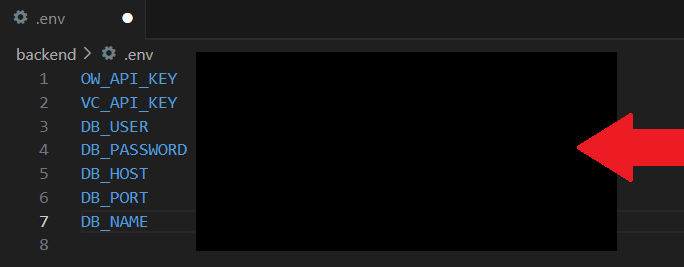
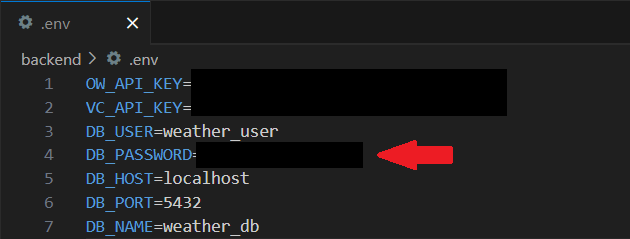
merge past 3days and 10days into one method

diff --git a/backend/app.py b/backend/app.py
@@ -1,5 +1,5 @@
 from flask import Flask, jsonify, request
-from weather import current_weather, forecast_weather, past_weather_3days, past_weather_10days, get_spb_weather_from_db
+from weather import current_weather, forecast_weather, past_weather, get_spb_weather_from_db
 from flask_cors import CORS
 
 
@@ -31,7 +31,7 @@ def get_3_days_weather():
             return jsonify(data), 200
         return jsonify({"detail": "Failed to get SPb weather data"}), 500
     else:
-        data, status_code = past_weather_3days(city_name, state_name, country_name)
+        data, status_code = past_weather(city_name, state_name, country_name, 3)
         if status_code == 200:
             return jsonify(data), 200
         return jsonify({"detail": "Failed to get weather data"}), status_code
@@ -42,15 +42,13 @@ def get_10_days_weather():
     state_name = request.args.get('state_name', None)  
     country_name = request.args.get('country_name') 
 
-    data, status_code = past_weather_10days(city_name, state_name, country_name)
-
     if city_name.lower() in ['saint-petersburg', 'санкт-петербург', 'спб', 'saint petersburg']:
         data = get_spb_weather_from_db(10)
         if data:
             return jsonify(data), 200
         return jsonify({"detail": "Failed to get SPb weather data"}), 500
     else:
-        data, status_code = past_weather_10days(city_name, state_name, country_name)
+        data, status_code = past_weather(city_name, state_name, country_name, 10)
         if status_code == 200:
             return jsonify(data), 200
         return jsonify({"detail": "Failed to get weather data"}), status_code

diff --git a/backend/weather.py b/backend/weather.py
@@ -232,15 +232,8 @@ def get_spb_weather_from_db(days):
         session.close()
 
 
-def past_weather_3days(city_name, region, country_name):
+def past_weather(city_name, region, country_name, days):
     lat, lon, status_code = get_lan_lon(api_key, city_name, region, country_name)
     if status_code == 200:
-        return get_past_weather_data(lat, lon, 3, api_key_days), 200
-    return None, status_code
-
-
-def past_weather_10days(city_name, region, country_name):
-    lat, lon, status_code = get_lan_lon(api_key, city_name, region, country_name)
-    if status_code == 200:
-        return get_past_weather_data(lat, lon, 10, api_key_days), 200
+        return get_past_weather_data(lat, lon, days, api_key_days), 200
     return None, status_code

diff --git a/backend/README.md b/backend/README.md
@@ -15,6 +15,6 @@ CREATE DATABASE weather_db;
 CREATE USER weather_user WITH PASSWORD 'weather_password';
 GRANT ALL PRIVILEGES ON DATABASE weather_db TO weather_user;
 ALTER DATABASE weather_db OWNER TO weather_user;
-9. Добавить в файл .env данные для подключения к базе данных.
+9. Добавить в файл .env свой пароль для подключения к базе данных.
 ![alt text](sources/database_connect.png)
-10. Запустить приложение: flask run.
+10. Запустить приложение: python app.py
